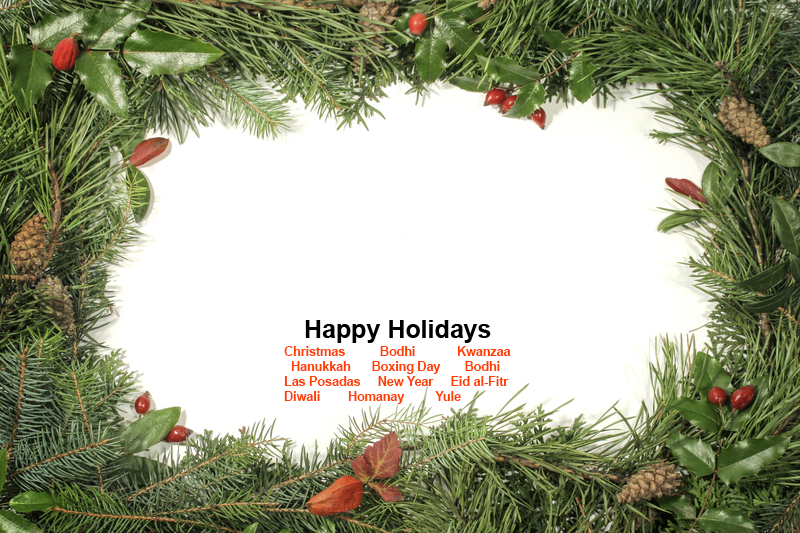
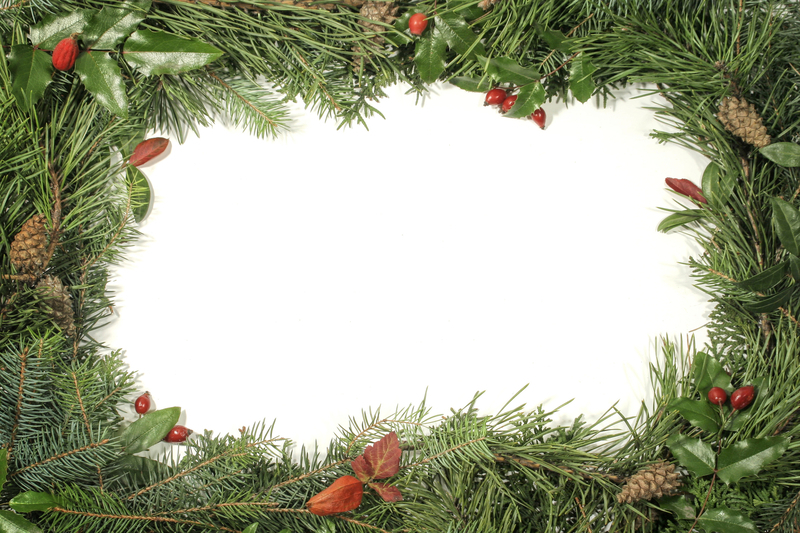
edit html, css to reflect new image & holiday text

Changed region(s): [[0.3438, 0.6004, 0.625, 0.7505]]

diff --git a/public/stylesheets/style.css b/public/stylesheets/style.css
@@ -3,23 +3,22 @@
     margin: 0;
     padding: 0;
 }
-
+/* style for form starter code */
 form.signup,
 form.login {
     margin-top: 1.0rem;
 }
-
+/* style for checking valid password */
 #validPass {
     font-size: 2.0rem;
     font-weight: bold;
     text-align: center;
 }
-
+/* style text on forms */
 .bold {
     font-weight: bold;
 }
-
-
+/* index.handlebars layout style */
 .rowIndex {
     display: -webkit-box;
     display: -webkit-flex;
@@ -27,11 +26,12 @@ form.login {
     display:         flex;
     flex-wrap: wrap;
   }
+/* index.handlebars layout style */
   .rowIndex > [class*='col-'] {
     display: flex;
     flex-direction: column;
   }
-  
+/* style for Login and Sign Up forms */  
 .wishForms {
     margin-top: 2.0rem;
     background-color: #ffe6e6;
@@ -39,7 +39,66 @@ form.login {
     border: white solid;
     border-radius: 2rem;
 }
-
+/* style for Holiday text */
+.holidayList {
+    margin-top: 0rem;
+    margin-bottom: 0.25rem;
+    font-weight: bold;
+    text-align: center;
+}
+/* style for line 1 of celebrated holidays  */
+.listLine1 {
+    margin-top: 0.75rem;
+    margin-bottom: 1.25rem;
+    font-size: 2.5rem;
+    font-weight: bold;
+    line-height: 1.0rem;
+    color: #ff4000;
+    word-spacing: 1.2em;
+    /* display: inline-block; */
+    text-align: center;
+}
+/* style for line 21 of celebrated holidays  */
+.listLine2 {
+    margin-top: 0.75rem;
+    margin-bottom: 1.25rem;
+    font-size: 2.5rem;
+    font-weight: bold;
+    line-height: 1.0rem;
+    color: #ff4000;
+    word-spacing: 0.5em;
+    /* display: inline-block; */
+    text-align: center;
+}
+/* style for line 3 of celebrated holidays  */
+.listLine3 {
+    margin-top: 0.75rem;
+    margin-bottom: 1.25rem;
+    font-size: 2.5rem;
+    font-weight: bold;
+    line-height: 1.0rem;
+    color: #ff4000;
+    word-spacing: 0.6em;
+    /* display: inline-block; */
+    text-align: center;
+}
+/* style for line 4 of celebrated holidays  */
+.listLine4 {
+    margin-top: 0.75rem;
+    margin-bottom: 0rem;
+    font-size: 2.5rem;
+    font-weight: bold;
+    line-height: 1.0rem;
+    color: #ff4000;
+    word-spacing: 1.1em;
+    /* display: inline-block; */
+    text-align: center;
+}
+/* style for character space needed in holidays  */
+.dash {
+    opacity:0;
+}
+/* style body, html */
 body,
 html {
     height: 100%;
@@ -61,18 +120,18 @@ html {
 .navbar {
     padding-top: 0.5rem;
 }
-
+/* style logout buton */
 #logout {
     margin-top: 3.0rem;
     margin-bottom: 5px;
 }
-
+/* style for forms instruction */
 .instruction {
     font-family: Arial, Helvetica, sans-serif;
     color: black;
     padding-top: 0.1rem;
 }
-
+/* style for forms jumbotron */
 .formJumbotron {
     font-family: 'Times New Roman', Times, serif;
     color: white;
@@ -82,25 +141,17 @@ html {
     background-color: #ff4000;
     opacity: 0.8;
 }
-
+/* style for index.handlebars jumbotron */
 .jumbotron {
     font-family: 'Times New Roman', Times, serif;
     color: white;
     font-weight: bold;
-    padding-top: .0rem;
+    padding-top: 0rem;
     padding-bottom: 0.50rem;
     background-color: #ff4000;
     opacity: 0.8;
 }
-
-#leftSide {
-    background-color: lightgreen;
-}
-
-#rightSide {
-    background-color: lightgreen;
-}
-
+/* stle background image */
 body {
     background-image: url("../images/holidays1.png");
     background-position: center center;
@@ -124,7 +175,7 @@ body {
 }
 
 /* Style footer for main */
-.mainFooter {
+/* .mainFooter {
     font-family: 'Times New Roman', Times, serif;
     color: white;
     font-weight: bold;
@@ -134,12 +185,12 @@ body {
     bottom: 0;
     width: 100%;
     position: fixed;
-}
-
+} */
+/* style for 'bought' in Wish List */
 .bought {
     text-decoration: line-through;
 }
-
+/* style for cursor in Family List */
 .familyListItem {
     cursor: pointer;
 }

diff --git a/public/signup.html b/public/signup.html
@@ -17,7 +17,6 @@
   <div class="slider">
     <div class="load">
     </div>
-
     <!-- Jumbotron banner  -->
     <div class="text-center titleBanner formJumbotron jumbotron jumbotron-fluid">
       <div class="container">
@@ -26,6 +25,7 @@
           Group</h4>
       </div>
     </div>
+    <!-- Bootstrap Grid: Row 1, Column 1 -->
     <div class="container">
       <div class="row">
         <div class="wishForms col-md-6 col-md-offset-3">
@@ -39,20 +39,45 @@
               <label for="exampleInputPassword1" class="bold">Password</label>
               <input type="password" class="form-control" id="password-input" placeholder="Password">
             </div>
+            <!-- Notify user if email address is already being used -->
             <div style="display: none" id="alert" class="alert alert-danger" role="alert">
-              <span class="glyphicon glyphicon-exclamation-sign" aria-hidden="true"></span>
-              <span class="sr-only">Error:</span> <span class="msg"></span>
+              <span aria-hidden="true"></span>
+              <span class="sr-only">Error:</span>
+              <p id=validPass>Email Address Already Being Used</p>
             </div>
             <button type="submit" class="btn btn-default">Sign Up</button>
           </form>
           <br />
           <p class="bold">Or log in <a href="login.html">here</a></p>
         </div>
+
+        <div class="col-md-6 col-md-offset-3">
+          <h1 class="holidayList">Happy Holidays</h1>
+        </div>
+
+        <div class="listLine1 col-md-6 col-md-offset-3">
+          <p>Christmas Bodhi Kwanzaa</p>
+        </div>
+
+        <div class="listLine2 col-md-6 col-md-offset-3">
+          <p>Hanukkah Boxing<span class ="dash">-</span>Day Bodhi</p>
+        </div>
+
+        <div class="listLine3 col-md-6 col-md-offset-3">
+          <p>Las<span class ="dash">-</span>Posadas Yule Eid<span class ="dash">-</span>al-Fitr</p>
+        </div>
+
+        <div class="listLine4 col-md-6 col-md-offset-3">
+          <p>Diwali Homanay New<span class ="dash">-</span>Year</p>
+        </div>
+
+      </div>
+
       </div>
     </div>
 
     <!-- Sticky Footer -->
-    <footer class = "formFooter">
+    <footer class="formFooter">
       <p class="text-center"> Copyright &copy; 2020, Holiday Wish List <i class="fas fa-gifts"></i></p>
     </footer>
 

diff --git a/public/login.html b/public/login.html
@@ -45,11 +45,32 @@
           <br />
           <p class="bold">Or sign up <a href="signup.html">here</a></p>
         </div>
-      </div>
-    </div>
 
+        <div class="col-md-6 col-md-offset-3">
+          <h1 class="holidayList">Happy Holidays</h1>
+        </div>
+
+        <div class="listLine1 col-md-6 col-md-offset-3">
+          <p>Christmas Bodhi Kwanzaa</p>
+        </div>
+
+        <div class="listLine2 col-md-6 col-md-offset-3">
+          <p>Hanukkah Boxing<span class ="dash">-</span>Day Bodhi</p>
+        </div>
+
+        <div class="listLine3 col-md-6 col-md-offset-3">
+          <p>Las<span class ="dash">-</span>Posadas Yule Eid<span class ="dash">-</span>al-Fitr</p>
+        </div>
+
+        <div class="listLine4 col-md-6 col-md-offset-3">
+          <p>Diwali Homanay New<span class ="dash">-</span>Year</p>
+        </div>
+
+      </div>
+
+    </div>
     <!-- Footer -->
-    <footer class = "formFooter">
+    <footer class="formFooter">
       <p class="text-center"> &copy; 2020 Holiday Wish List <i class="fas fa-gifts"></i></p>
     </footer>
 
